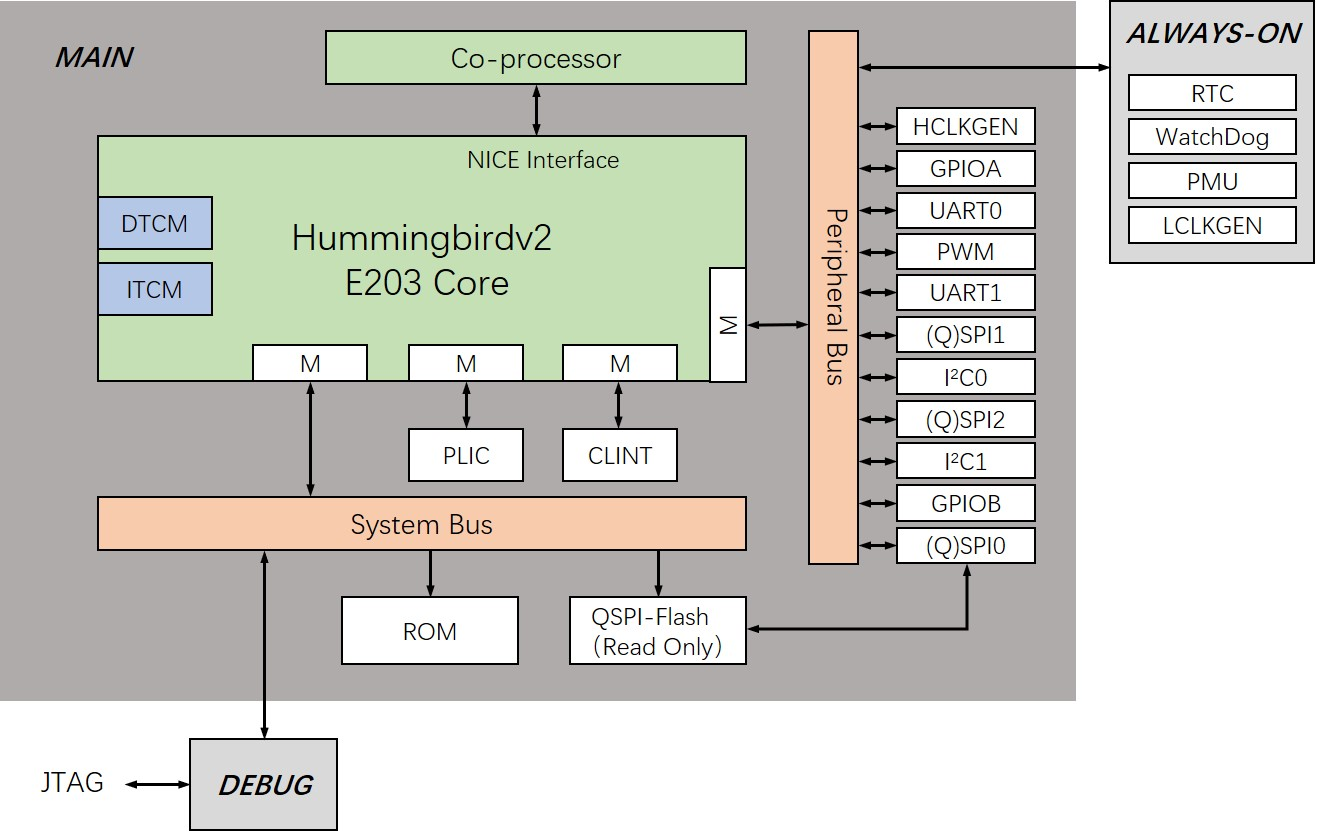
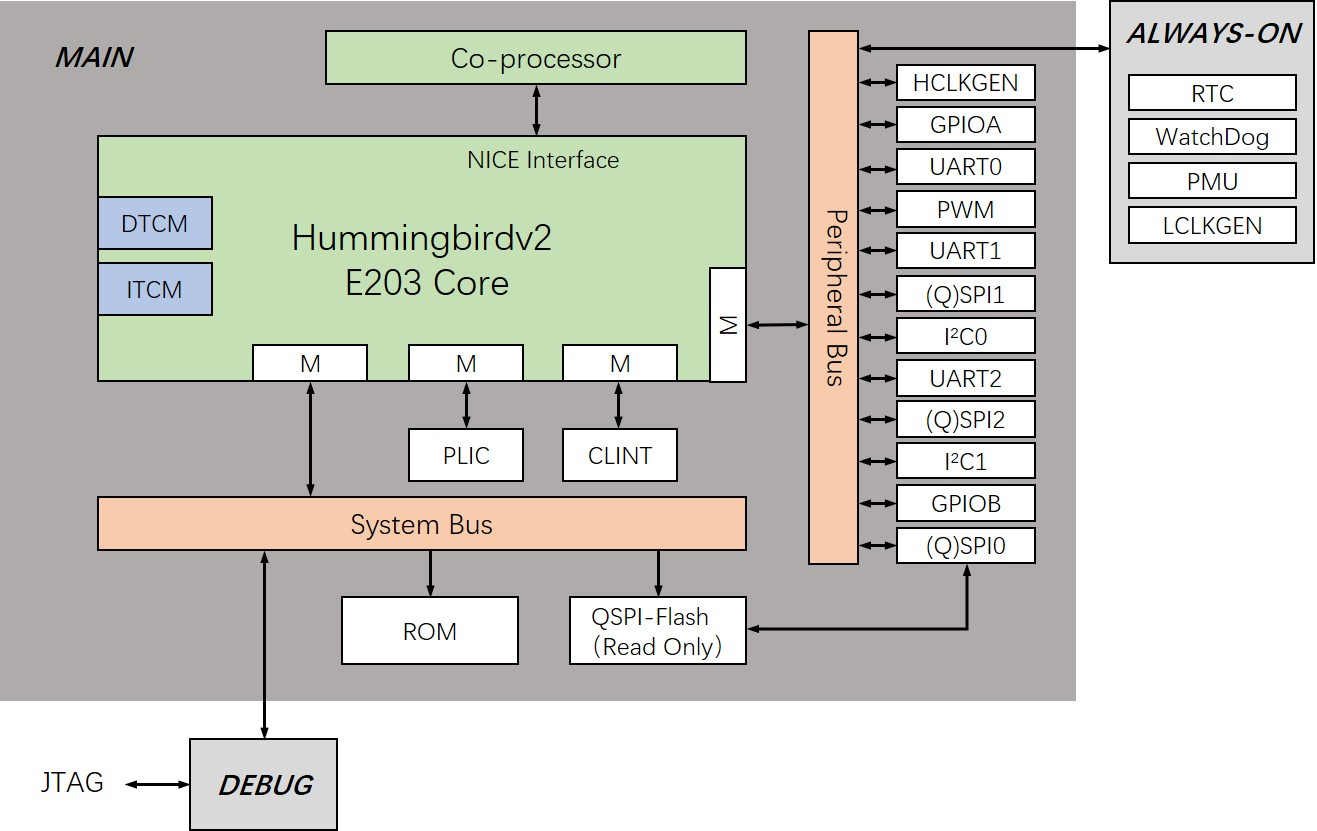
doc: update HBirdv2 DoC as HBirdv2 SoC updated

Changed region(s): [[0.6226, 0.0301, 0.8405, 0.4813]]

diff --git a/doc/source/soc_peripherals/ips.rst b/doc/source/soc_peripherals/ips.rst
@@ -31,7 +31,7 @@ The peripherals in Hummingbirdv2 SoC are all listed in the table below.
    + Interface      +----------------+--------+
    |                | I2C            | 2      |
    +                +----------------+--------+
-   |                | UART           | 2      |
+   |                | UART           | 3      |
    +----------------+----------------+--------+
    | PWM            | PWM            | 16     |
    +----------------+----------------+--------+
@@ -105,7 +105,7 @@ PLIC
 
 PLIC, Platform Level Interrupt Controller, is part of RISC-V standard privileged architecture specification. It's used for multiple external interrupt sources management and arbitration in HBirdv2 SoC.
 
-It could support a maximum of 1024 external interrupt sources. In HBirdv2 SoC, 15 external interrupt sources are connected to PLIC unit, as listed in the table below. For multiple external interrupt inputs, PLIC unit arbitrates them into one-bit signal, and sents to the processor core as Machine External Interrupt.
+It could support a maximum of 1024 external interrupt sources. In HBirdv2 SoC, 16 external interrupt sources are connected to PLIC unit, as listed in the table below. For multiple external interrupt inputs, PLIC unit arbitrates them into one-bit signal, and sents to the processor core as Machine External Interrupt.
 
 .. _table_ips_4:
 
@@ -124,27 +124,29 @@ It could support a maximum of 1024 external interrupt sources. In HBirdv2 SoC, 1
    +------------------+------------------------+
    | 4                | uart1                  |
    +------------------+------------------------+
-   | 5                | qspi0                  |
+   | 5                | uart2                  |
    +------------------+------------------------+
-   | 6                | qspi1                  |
+   | 6                | qspi0                  |
    +------------------+------------------------+
-   | 7                | qspi2                  |
+   | 7                | qspi1                  |
    +------------------+------------------------+
-   | 8                | pwm0                   |
+   | 8                | qspi2                  |
    +------------------+------------------------+
-   | 9                | pwm1                   |
+   | 9                | pwm0                   |
    +------------------+------------------------+
-   | 10               | pwm2                   |
+   | 10               | pwm1                   |
    +------------------+------------------------+
-   | 11               | pwm3                   |
+   | 11               | pwm2                   |
    +------------------+------------------------+
-   | 12               | i2c0                   |
+   | 12               | pwm3                   |
    +------------------+------------------------+
-   | 13               | i2c1                   |
+   | 13               | i2c0                   |
    +------------------+------------------------+
-   | 14               | gpioA                  |
+   | 14               | i2c1                   |
    +------------------+------------------------+
-   | 15               | gpioB                  |
+   | 15               | gpioA                  |
+   +------------------+------------------------+
+   | 16               | gpioB                  |
    +------------------+------------------------+
 
 The registers of PLIC module are listed in the table below.
@@ -303,9 +305,9 @@ When the corresponding bit of GPIO_IOFCFG register is set to 1, the GPIO pin wor
    +------------------+------------+------------------+------------+
    | 17               | UART0: TX  | 17               | UART1: TX  |
    +------------------+------------+------------------+------------+
-   | 18               | \-         | 18               | \-         |
+   | 18               | UART2: RX  | 18               | \-         |
    +------------------+------------+------------------+------------+
-   | 19               | \-         | 19               | \-         |
+   | 19               | UART2: TX  | 19               | \-         |
    +------------------+------------+------------------+------------+
    | 20               | \-         | 20               | \-         |
    +------------------+------------+------------------+------------+
@@ -1119,7 +1121,7 @@ UART
 
 UART, Universal Asynchronous Receiver-Transmitter, features are listed as below.
 
-- HBirdv2 SoC contains two UART modules
+- HBirdv2 SoC contains three UART modules
 - Fully programmable serial interface characteristics
 
   - Even, odd or no-parity bit generation/detection
@@ -1157,7 +1159,7 @@ The registers of UART module are listed in the table below.
    +---------------+----------------+-----------------------------------+
 
 .. note::
-   - UART0 base address is 0x1001_3000, UART1 base address is 0x1002_3000.
+   - UART0 base address is 0x1001_3000, UART1 base address is 0x1002_3000, UART2 base address is 0x1003_3000.
    - All UART registers are 32-bit.
    - UART_RBR is read-only register, UART_THR is write-only register, UART_DLL is readable and writable register, 
      these three registers share the same access address. If access UART_DLL register, DLAB field of UART_LCR register should be set.
@@ -1381,7 +1383,7 @@ PWM, Pulse-Width Modulation. HBirdv2 SoC has one PWM module, which contains 4 Ti
 - Configurable counting mode for each Timer.
 - Interrupt generation (configurable interrupt source)
 
-The registers of UART module are listed in the table below.
+The registers of PWM module are listed in the table below.
 
 .. _table_ips_54:
 

diff --git a/doc/source/quick_start/mcs.rst b/doc/source/quick_start/mcs.rst
@@ -7,10 +7,11 @@ This chapter will introduce how to generate mcs file for Nuclei ddr200t developm
 
 After HBirdv2 E203 SoC is implemented on the FPGA subsystem of Nuclei ddr200t development board, we can develop embedded applications with it, just like with a real MCU chip.
 
-Before starting the process of MCS generation, you should make sure that your environment is ready, which means e203_hbirdv2 project in your working machine. About environmnet setting, please refer to :ref:`Get ready <get_ready>`.
+Before starting the process of MCS generation, you should make sure that your environment is ready, which means e203_hbirdv2 project is ready in your working machine. About environmnet setting, please refer to :ref:`Get ready <get_ready>`.
 
 .. note::
-   About the details of Nuclei ddr200t development board, please refer to .
+   - Nuclei ddr200t and mcu200t development boards could be used to support HBirdv2 E203 SoC development, here we just take Nuclei ddr200t development board as an example to introduce the development process. For Nuclei mcu200t development board, the development process is similar. 
+   - About the details of Nuclei ddr200t and mcu200t development boards, please refer to `Nuclei Development Board <https://www.nucleisys.com/developboard.php>`__.
 
 
 FPGA MCS generation
@@ -22,7 +23,7 @@ FPGA MCS generation
 
    cd <your_e203_dir>/fpga
    
-   make install
+   make install FPGA_NAME=ddr200t
         
 .. note::
    After running above commands, a folder named *install* will be created under *<your_e203_dir>/fpga* directory, and all RTL files needed to generate FPGA bitstream file are loacted in *install/rtl* folder.
@@ -31,7 +32,7 @@ FPGA MCS generation
 
 .. code-block:: shell
 
-   make bit
+   make bit FPGA_NAME=ddr200t
 
 .. note::
    Since the FPGA chip used in Nuclei ddr200t development board is Xilinx FPGA, so make sure that Vivado is installed in your machine before running above command.
@@ -40,7 +41,7 @@ FPGA MCS generation
 
 .. code-block:: shell
 
-   make mcs
+   make mcs FPGA_NAME=ddr200t
 
 .. note::
    If above steps run successfully, the FPGA MCS file will be generated under *<your_e203_dir>/fpga/ddr200t/obj* directory, named *system.mcs*.

diff --git a/doc/source/quick_start/sdk.rst b/doc/source/quick_start/sdk.rst
@@ -232,6 +232,8 @@ Compile Hello World demo
      +-----------+------------+---------------+----------------------------------------------------------------------------------------+
      | BOARD     | ddr200t    | ddr200t       | Declare which Board is used in application during compiling                            |
      +           +------------+               +                                                                                        +
+     |           | mcu200t    |               |                                                                                        |
+     +           +------------+               +                                                                                        +
      |           | hbird_eval |               |                                                                                        |
      +-----------+------------+---------------+----------------------------------------------------------------------------------------+
      | CORE      | e203       | e203          | Declare which Core is used in application during comiling                              |
@@ -261,7 +263,7 @@ Run Hello World demo
 - Connect power supply and turn on the power switch on Nuclei dde200t development board.
 
 .. figure:: /asserts/medias/sdk_fig8.png
-   :width: 700
+   :width: 500
    :alt: sdk_fig8
 
    Connect with PC and power supply 

diff --git a/doc/source/overview/overview.rst b/doc/source/overview/overview.rst
@@ -23,7 +23,7 @@ In this new verison, we have following updates.
 
 - Add NICE(Nuclei Instruction Co-unit Extension) for E203 core, so user could create customized HW co-units with E203 core easily.
 - Integrate the APB interface peripherals(GPIO, I2C, UART, SPI, PWM) from `PULP Platform <https://github.com/pulp-platform>`__ into Hummingbirdv2 SoC, these peripherals are implemented in System Verilog language, so it's easy for user to understand.
-- Add new development board(Nuclei ddr200t) support for Hummingbirdv2 SoC.
+- Add new development boards(Nuclei ddr200t and mcu200t) support for Hummingbirdv2 SoC.
 
 **Welcome to visit** `HBird SDK <https://github.com/riscv-mcu/hbird-sdk/>`__ **to use software development kit for the Hummingbirdv2 E203.**
 

diff --git a/doc/source/appendix.rst b/doc/source/appendix.rst
@@ -9,6 +9,8 @@ Appendix
 
 * **Nuclei RISCV Tools Download**: https://nucleisys.com/download.php
 
+* **Nuclei Development Board**: https://nucleisys.com/developboard.php
+
 * **Nuclei riscv-openocd**: https://github.com/riscv-mcu/riscv-openocd
 
 * **Nuclei riscv-binutils-gdb**: https://github.com/riscv-mcu/riscv-binutils-gdb
@@ -22,3 +24,5 @@ Appendix
 * **Nuclei RISC-V IP Products**: https://www.nucleisys.com/product.php
 
 * **RISC-V MCU Community Website**: http://www.rvmcu.com/
+
+* **Nuclei RV University Program**: https://www.nucleisys.com/campus.php

diff --git a/doc/source/changelog.rst b/doc/source/changelog.rst
@@ -3,6 +3,24 @@
 Changelog
 =========
 
+V0.1.2
+------
+
+This release 0.1.2 of HBirdv2 E203 Core and SoC.
+
+- HBirdv2 SoC
+  
+  - Remove unused module
+  - Add one more UART
+
+- FPGA
+  
+  - Add new development board (Nuclei mcu200t) support for HBirdv2 SoC
+
+- HBird SDK
+  
+  - Add support for new development board (Nuclei mcu200t)
+
 V0.1.1
 ------
 
